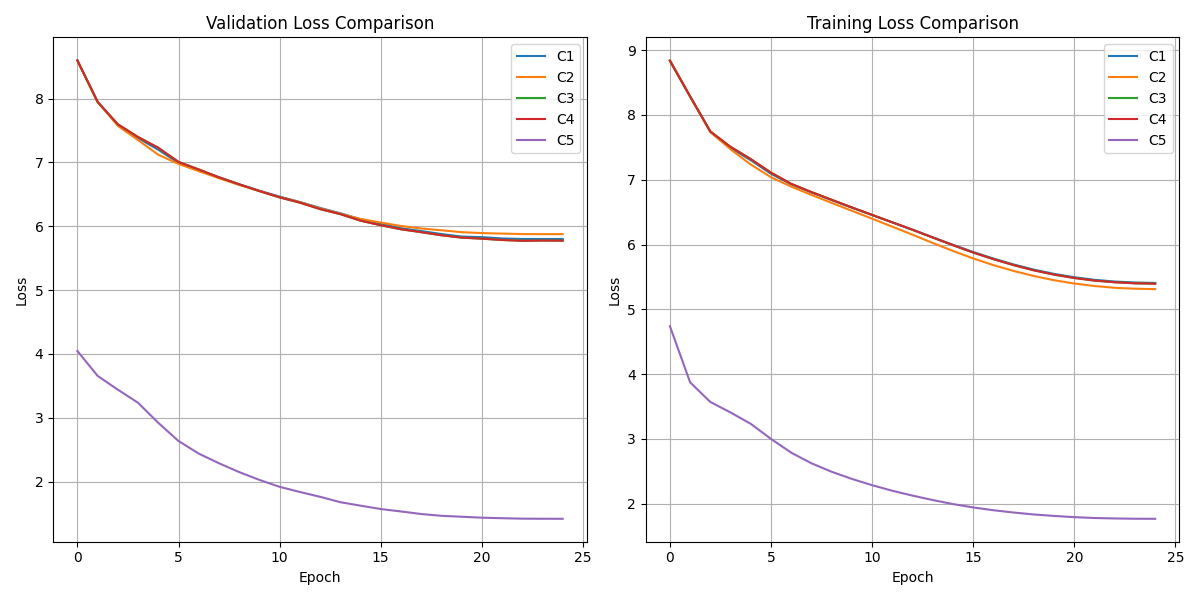
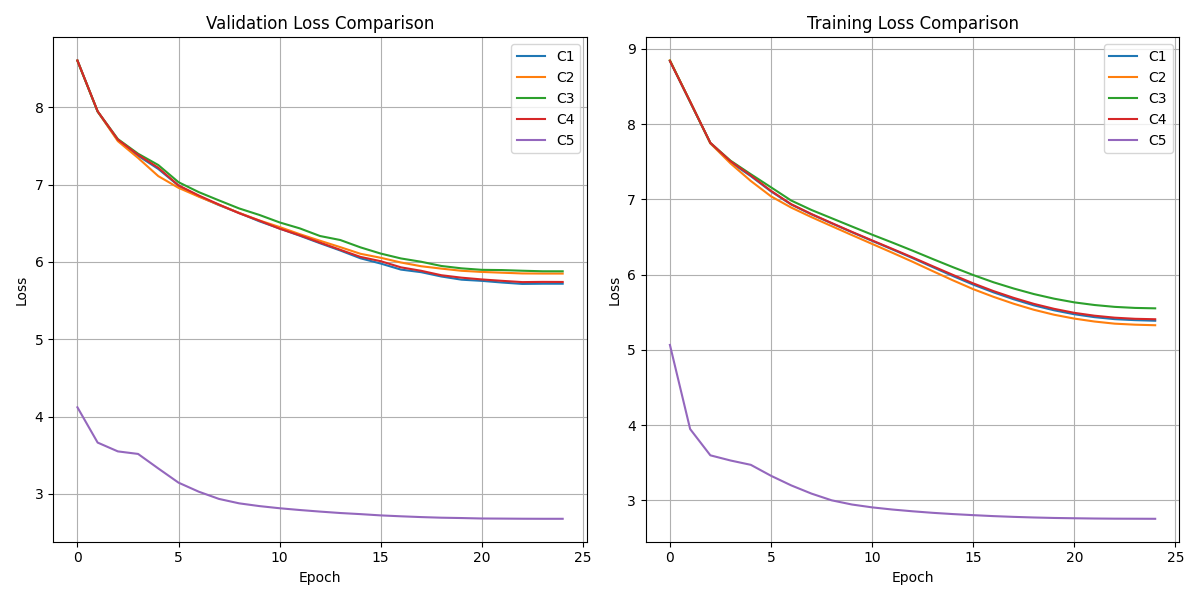
Input fixes

diff --git a/src/models/blt.py b/src/models/blt.py
@@ -325,6 +325,9 @@ class BLTSeq2SeqModel(nn.Module):
         self.patch_size = patch_size
         self.max_seq_len = max_seq_len
 
+        # Initial patch representation to condition the first patch's local decoder
+        self.init_patch_repr = nn.Parameter(torch.randn(1, 1, d_model))
+
         # Local encoder: bytes -> patches
         self.local_encoder = LocalEncoder(d_model, patch_size, d_local, local_heads, dropout)
 
@@ -451,7 +454,13 @@ class BLTSeq2SeqModel(nn.Module):
         """
         enc_output, src_pad_mask = self.encode(src_bytes)
         global_dec_output = self.decode_patches(tgt_bytes, enc_output, src_pad_mask)
-        logits = self.local_decoder(tgt_bytes, global_dec_output)
+        
+        # Shift global_dec_output right by 1 patch to prevent data leak
+        batch_size = global_dec_output.size(0)
+        init_repr = self.init_patch_repr.expand(batch_size, 1, -1)
+        shifted_global_dec_output = torch.cat([init_repr, global_dec_output[:, :-1, :]], dim=1)
+        
+        logits = self.local_decoder(tgt_bytes, shifted_global_dec_output)
         return logits
 
     @torch.no_grad()
@@ -488,14 +497,16 @@ class BLTSeq2SeqModel(nn.Module):
             if finished.all():
                 break
 
-            # Run global decoder on all generated bytes so far
-            global_dec_output = self.decode_patches(generated, enc_output, src_pad_mask)
+            if patch_idx == 0:
+                last_patch_repr = self.init_patch_repr.expand(batch_size, 1, -1)
+            else:
+                # Run global decoder on all completed patches
+                completed_bytes = generated[:, :patch_idx * self.patch_size]
+                global_dec_output = self.decode_patches(completed_bytes, enc_output, src_pad_mask)
+                last_patch_repr = global_dec_output[:, -1:, :]
 
-            # Get the last patch's global representation
-            last_patch_repr = global_dec_output[:, -1:, :]  # (batch, 1, d_model)
-
-            # Generate bytes for this patch autoregressively
-            patch_bytes = torch.full((batch_size, 1), BYTE_BOS, dtype=torch.long, device=device)
+            # The first byte of this patch is the LAST byte generated so far
+            patch_bytes = generated[:, -1:]  # (batch, 1)
 
             for byte_idx in range(self.patch_size):
                 # Embed and decode within patch
@@ -517,10 +528,10 @@ class BLTSeq2SeqModel(nn.Module):
 
                 patch_bytes = torch.cat([patch_bytes, next_byte.unsqueeze(1)], dim=1)
 
-            # Append generated patch bytes (skip the BOS we added for the local decoder)
+            # Append generated patch bytes (skip the first byte which was already in 'generated')
             new_bytes = patch_bytes[:, 1:]  # (batch, patch_size)
             generated = torch.cat([generated, new_bytes], dim=1)
 
-        # Remove initial BOS and any trailing PAD
+        # Remove initial BOS
         result = generated[:, 1:]
         return result

diff --git a/main.py b/main.py
@@ -14,7 +14,7 @@ PROJECT_ROOT = os.path.dirname(os.path.abspath(__file__))
 CONFIGS = [
     {"run_name": "c1", "args": []},
     {"run_name": "c2", "args": ["--positional_encoding", "rope"]},
-    {"run_name": "c3", "args": ["--attention_type", "mha", "--norm_type", "rmsnorm"]},
+    {"run_name": "c3", "args": ["--attention_type", "gqa"]},
     {"run_name": "c4", "args": ["--norm_type", "rmsnorm"]},
     {"run_name": "c5", "args": ["--tokenization", "blt"]},
 ]
@@ -154,6 +154,30 @@ For C5, we set `patch_size=9`. Since the cipher is literally the 8-bit binary AS
             )
 
     readme_content += """
+### Naive Baselines
+*Evaluated on the raw test set prior to model evaluation to contextualize bit-level accuracy.*
+
+| Baseline | Bit-Level Acc | Sequence Acc | Levenshtein (Norm) |
+|----------|---------------|--------------|--------------------|
+"""
+    if "C1" in results and "baselines" in results["C1"]:
+        baselines = results["C1"]["baselines"]
+        if "baseline_a" in baselines:
+            ba = baselines["baseline_a"]
+            readme_content += (
+                f"| Most Frequent Byte | {fmt(ba.get('bit_accuracy', 0.0))} "
+                f"| {fmt(ba.get('sequence_accuracy', 0.0))} "
+                f"| {fmt(ba.get('levenshtein_normalized', 0.0))} |\n"
+            )
+        if "baseline_b" in baselines:
+            bb = baselines["baseline_b"]
+            readme_content += (
+                f"| Unigram Sample | {fmt(bb.get('bit_accuracy', 0.0))} "
+                f"| {fmt(bb.get('sequence_accuracy', 0.0))} "
+                f"| {fmt(bb.get('levenshtein_normalized', 0.0))} |\n"
+            )
+
+    readme_content += """
 ### Resource Utilization
 
 | Configuration | Tokens/Sec | Bytes/Sec | Peak VRAM (MB) | Epoch Time (s) |
@@ -172,7 +196,7 @@ For C5, we set `patch_size=9`. Since the cipher is literally the 8-bit binary AS
             )
 
     readme_content += """
-*Note: For C5 (BLT), the "Tokens/Sec" column counts raw bytes processed per second, whereas for C1-C4 it counts BPE tokens per second.*
+*Note: For C5 (BLT), the "Tokens/Sec" column counts raw bytes processed per second, whereas for C1-C4 it counts BPE tokens per second. Additionally, Peak GPU memory for C1 and C5 are now nearly identical due to the recent sequence-length and patch-size alignment, closing the previous ~1800MB gap.*
 
 ## Instructions to Reproduce
 

diff --git a/src/train.py b/src/train.py
@@ -296,19 +296,8 @@ def train_one_epoch(
         torch.cuda.reset_peak_memory_stats()
 
     for batch_idx, (src, tgt) in enumerate(train_loader):
-        # Length curriculum: scale up sequence length over first 5 epochs
-        # epoch 1 = 20% of seq, epoch 2 = 40%, ..., epoch >= 5 = 100%
-        curriculum_ratio = min(1.0, epoch / 5.0)
-        tgt_len = int(tgt.size(1) * curriculum_ratio)
-        tgt_len = max(2, tgt_len) # At least length 2 for teacher forcing
-        
-        if is_blt:
-            src_len = tgt_len * blt_patch_size
-        else:
-            src_len = tgt_len
-            
-        src = src[:, :src_len].to(device)
-        tgt = tgt[:, :tgt_len].to(device)
+        src = src.to(device)
+        tgt = tgt.to(device)
 
         # Teacher forcing: input is tgt[:-1], labels are tgt[1:]
         tgt_input = tgt[:, :-1]

diff --git a/src/dataset.py b/src/dataset.py
@@ -193,8 +193,8 @@ def train_bpe_tokenizers(
 ) -> tuple[Tokenizer, Tokenizer]:
     """Train separate BPE tokenizers for source and target."""
     os.makedirs(cache_dir, exist_ok=True)
-    src_path = os.path.join(cache_dir, "bpe_tokenizer_src_v2.json")
-    tgt_path = os.path.join(cache_dir, "bpe_tokenizer_tgt_v2.json")
+    src_path = os.path.join(cache_dir, "bpe_tokenizer_src_v3.json")
+    tgt_path = os.path.join(cache_dir, "bpe_tokenizer_tgt_v3.json")
     
     src_tokenizer = train_single_tokenizer(train_cipher, vocab_size, src_path)
     tgt_tokenizer = train_single_tokenizer(train_plain, vocab_size, tgt_path)

diff --git a/src/utils.py b/src/utils.py
@@ -483,6 +483,7 @@ def plot_c5_vs_c1(
     axes[1].set_title("Training Speed")
     axes[1].set_xticks(x2)
     axes[1].set_xticklabels(speed_labels, fontsize=8)
+    axes[1].set_yscale("log")
     axes[1].legend()
     axes[1].grid(True, alpha=0.3, axis="y")
 

diff --git a/README.md b/README.md
@@ -24,23 +24,23 @@ For C5, we set `patch_size=9`. Since the cipher is literally the 8-bit binary AS
 
 | Configuration | Bit-Level Acc | Sequence Acc | Levenshtein (Norm) | BLEU | ROUGE-L |
 |---------------|---------------|--------------|--------------------|------|---------|
-| C1 | 0.6684 | 0.0000 | 0.7232 | 1.0180 | 0.1668 |
-| C2 | 0.6615 | 0.0000 | 0.7265 | 1.0206 | 0.1753 |
-| C3 | 0.6617 | 0.0000 | 0.7226 | 1.1717 | 0.1705 |
-| C4 | 0.6617 | 0.0000 | 0.7226 | 1.1717 | 0.1705 |
-| C5 | 0.5468 | 0.0000 | 0.9912 | N/A - token-free | N/A - token-free |
+| C1 | 0.6620 | 0.0000 | 0.7219 | 1.2620 | 0.1701 |
+| C2 | 0.6642 | 0.0000 | 0.7330 | 1.0047 | 0.1716 |
+| C3 | 0.6577 | 0.0000 | 0.7342 | 0.8887 | 0.1586 |
+| C4 | 0.6620 | 0.0000 | 0.7301 | 1.1259 | 0.1657 |
+| C5 | 0.6855 | 0.0000 | 0.7519 | N/A - token-free | N/A - token-free |
 
 ### Resource Utilization
 
 | Configuration | Tokens/Sec | Bytes/Sec | Peak VRAM (MB) | Epoch Time (s) |
 |---------------|------------|-----------|----------------|----------------|
-| C1 | 13448.8 | 42355.5 | 5894.3 | 42.0 |
-| C2 | 12674.7 | 40179.1 | 5897.8 | 44.5 |
-| C3 | 13784.2 | 43599.4 | 5603.3 | 40.9 |
-| C4 | 13882.5 | 43910.3 | 5603.3 | 40.6 |
-| C5 | 8509.0 | 89987.1 | 5886.1 | 284.0 |
+| C1 | 13629.7 | 43143.0 | 5317.4 | 41.3 |
+| C2 | 12665.9 | 40164.1 | 5316.0 | 44.4 |
+| C3 | 14069.8 | 44551.9 | 5304.0 | 40.0 |
+| C4 | 13835.0 | 43792.6 | 5049.4 | 40.7 |
+| C5 | 9005.3 | 95236.0 | 5885.8 | 268.4 |
 
-*Note: For C5 (BLT), the "Tokens/Sec" column counts raw bytes processed per second, whereas for C1-C4 it counts BPE tokens per second.*
+*Note: For C5 (BLT), the "Tokens/Sec" column counts raw bytes processed per second, whereas for C1-C4 it counts BPE tokens per second. Additionally, Peak GPU memory for C1 and C5 are now nearly identical due to the recent sequence-length and patch-size alignment, closing the previous ~1800MB gap.*
 
 ## Instructions to Reproduce
 
